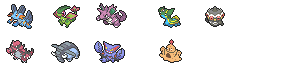
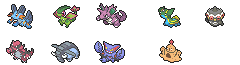
Added Roster

diff --git a/header.py b/header.py
@@ -506,7 +506,7 @@ def roster_sprites(mons, userid):
   sprites = [pokemon_list[1][pokemon_list[0].index(mon)] for mon in mons if mon != None]
   moncount = len(sprites)
   sidecount = moncount - 6
-  finalimg = Image.new('RGBA', (130 + (0 if moncount==0 else (20 + 45*(moncount//3))), 65), (0,0,0,0))
+  finalimg = Image.new('RGBA', (130 + (0 if sidecount==0 else (65 + 45*(sidecount//3))), 65), (0,0,0,0))
   for i in range(moncount):
     mon = sprites[i]
     print(mon)
